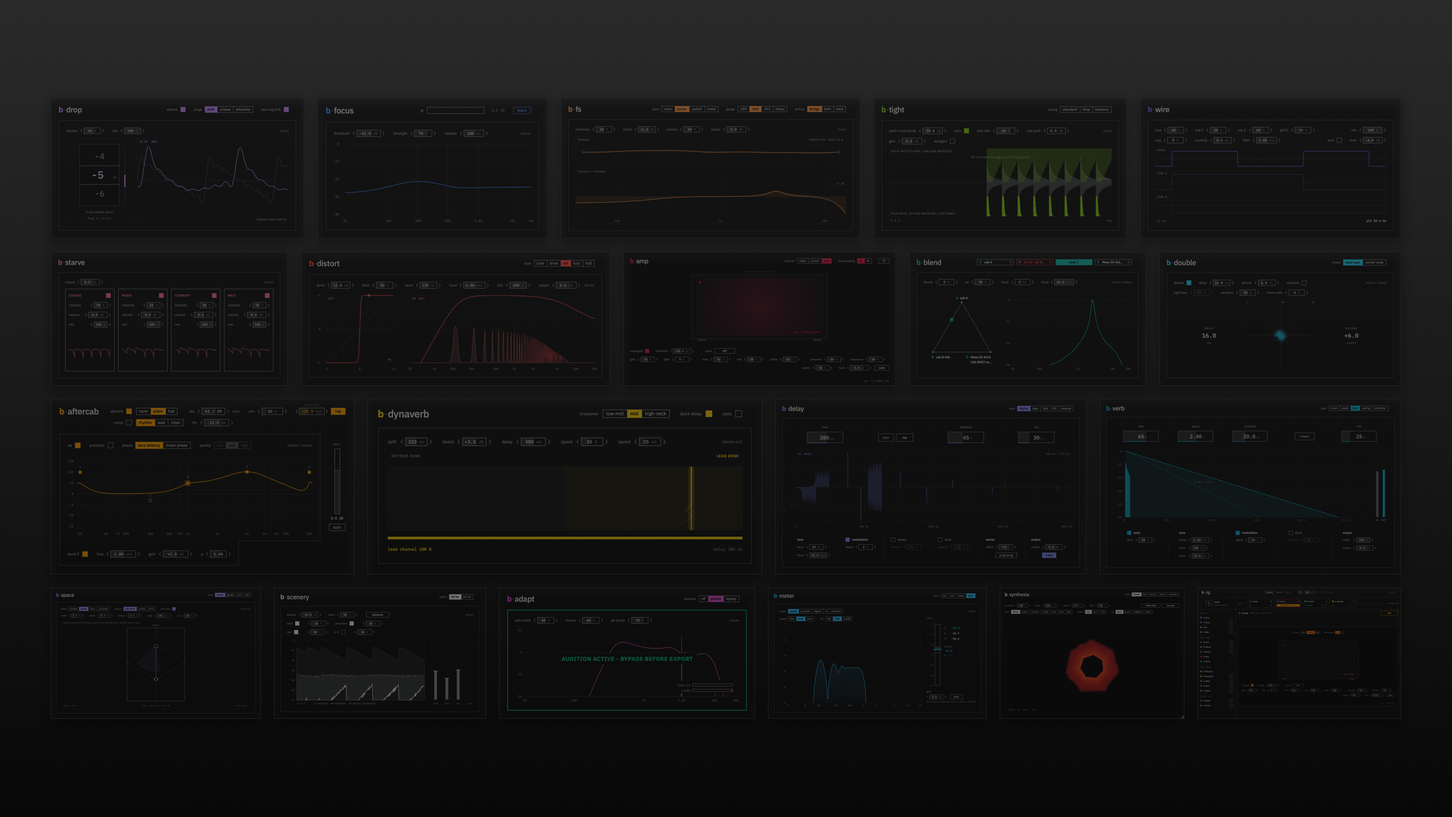
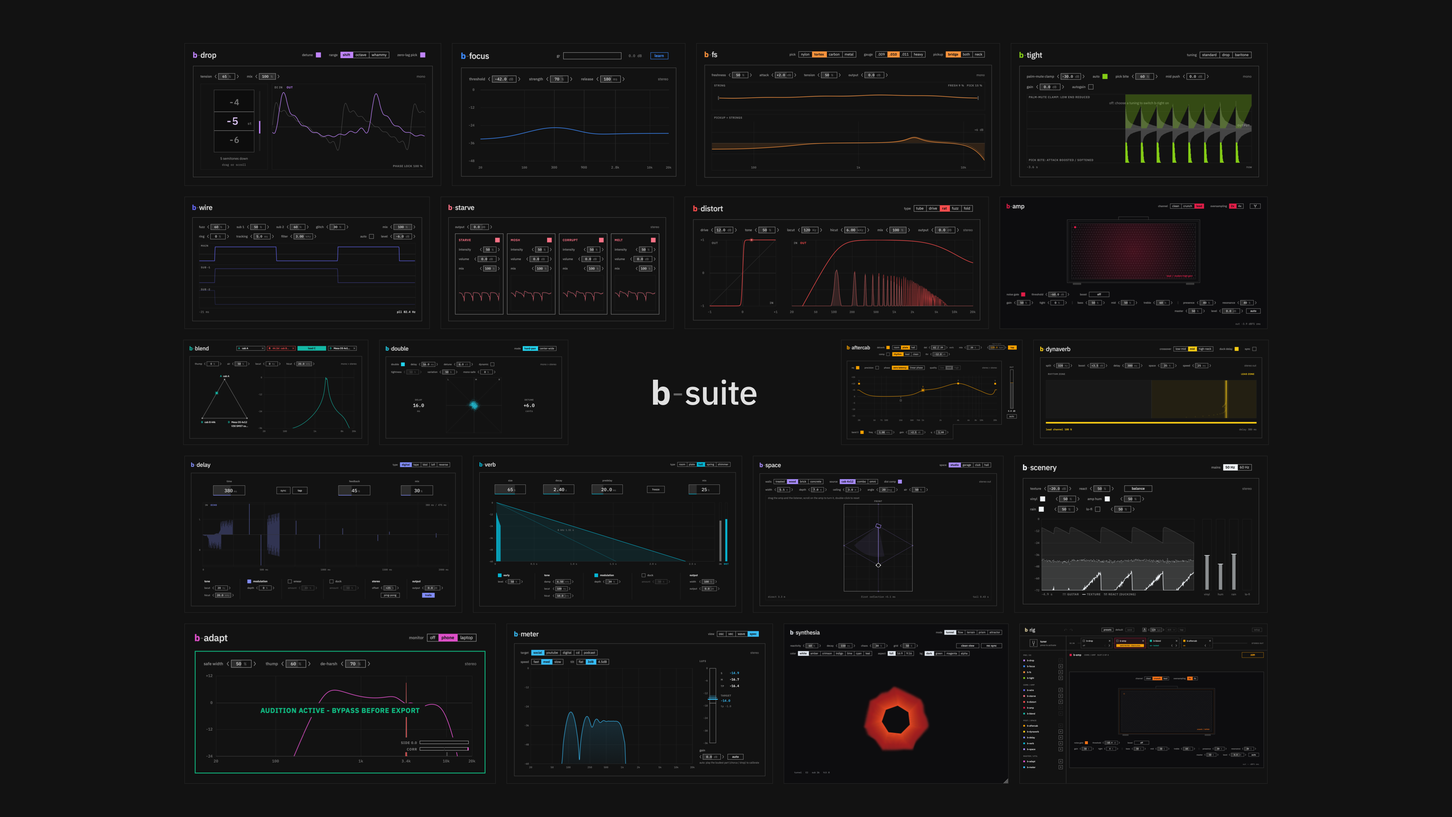
Suite installer fixes, two showcases
- Windows: strip CRLF when reading the plugin list; deterministic tap test
  (no wall-clock sleeps on slow CI machines).
- Showcases on the plugins' grey: every plugin around the b-suite logo, and
  every plugin on its own (used in the README).
- READMEs: b-suite and b-rig releases, plugins follow b-suite updates.

diff --git a/b-rig/Tools/MakeLogo.cpp b/b-rig/Tools/MakeLogo.cpp
@@ -156,70 +156,118 @@ Scene icon()
 }
 }
 
-// Vetrina a schermo intero: le schermate dei plugin incastrate in righe giustificate (ogni riga riempie la larghezza,
-// le immagini mantengono le proporzioni), margini uguali, sfondo che sfuma dall'alto verso il basso.
-//   BSuiteLogo --showcase uscita.png larghezza altezza img1.png img2.png ...
+// Vetrina a schermo intero: le schermate dei plugin a mosaico (righe giustificate: ogni riga riempie la larghezza e
+// le immagini mantengono le proporzioni), margini uguali, sfondo grigio come quello dei plugin.
+//   BSuiteLogo --showcase uscita.png larghezza altezza [--logo] img1.png img2.png ...
+// Con --logo i plugin stanno intorno al logotipo b-suite, al centro della riga di mezzo.
 int showcase (int argc, char** argv)
 {
     const auto cwd = juce::File::getCurrentWorkingDirectory();
     const auto out = cwd.getChildFile (argv[2]);
     const int W = juce::String (argv[3]).getIntValue(), H = juce::String (argv[4]).getIntValue();
+    int first = 5;
+    const bool withLogo = argc > 5 && juce::String (argv[5]) == "--logo";
+    if (withLogo) ++first;
     std::vector<juce::Image> imgs;
-    for (int i = 5; i < argc; ++i)
+    for (int i = first; i < argc; ++i)
     {
         auto im = juce::ImageFileFormat::loadFrom (cwd.getChildFile (argv[i]));
         if (im.isValid()) imgs.push_back (im); else std::printf ("salto %s\n", argv[i]);
     }
     if (imgs.empty()) return 1;
-    const float margin = (float) W * 0.035f, gap = (float) W * 0.009f;
+    const float margin = (float) W * 0.03f, gap = (float) W * 0.008f;
     const float availW = (float) W - 2.0f * margin, availH = (float) H - 2.0f * margin;
+    constexpr int kLogo = -1;   // la casella del logo nel mosaico
+    constexpr float kLogoAspect = 2.4f;
+    auto aspect = [&] (int i) { return i == kLogo ? kLogoAspect : (float) imgs[(size_t) i].getWidth() / (float) imgs[(size_t) i].getHeight(); };
     const int n = (int) imgs.size();
-    auto aspect = [&] (int i) { return (float) imgs[(size_t) i].getWidth() / (float) imgs[(size_t) i].getHeight(); };
-    // righe: per ogni numero di righe si dividono le immagini (in ordine) con somme di proporzioni simili,
-    // ogni riga alta quanto serve per riempire la larghezza; si sceglie l'altezza totale più vicina allo spazio
+
+    // righe: con il logo, un numero dispari di righe con lo stesso numero di plugin e il logo al centro di quella di
+    // mezzo; senza, la divisione in righe con le proporzioni più simili e l'altezza più vicina allo spazio
     std::vector<std::vector<int>> best; float bestErr = 1.0e9f;
-    for (int rows = 2; rows <= 7; ++rows)
+    auto rowHeight = [&] (const std::vector<int>& r) { float sa = 0; for (int i : r) sa += aspect (i); return (availW - gap * (float) (r.size() - 1)) / sa; };
+    auto evaluate = [&] (const std::vector<std::vector<int>>& part)
     {
-        float total = 0; for (int i = 0; i < n; ++i) total += aspect (i);
-        std::vector<std::vector<int>> part (1);
-        float acc = 0;
-        for (int i = 0; i < n; ++i)
-        {
-            const float a = aspect (i);
-            if (! part.back().empty() && (int) part.size() < rows && acc + a * 0.5f > total / (float) rows * (float) part.size())
-                part.emplace_back();
-            part.back().push_back (i); acc += a;
-        }
-        float h = 0;
-        for (auto& r : part) { float sa = 0; for (int i : r) sa += aspect (i); h += (availW - gap * (float) (r.size() - 1)) / sa; }
-        h += gap * (float) (part.size() - 1);
-        const float err = h > availH ? (h - availH) * 1.5f : availH - h;   // meglio un po' più piccolo che tagliato
+        float h = gap * (float) (part.size() - 1);
+        for (auto& r : part) h += rowHeight (r);
+        const float err = h > availH ? (h - availH) * 1.5f : availH - h;
         if (err < bestErr) { bestErr = err; best = part; }
+    };
+    if (withLogo)
+    {
+        for (int rows : { 3, 5, 7 })
+        {
+            std::vector<std::vector<int>> part ((size_t) rows);
+            int i = 0;
+            for (int r = 0; r < rows; ++r)
+            {
+                const int take = (n - i) / (rows - r);   // plugin rimasti divisi in parti uguali
+                for (int k = 0; k < take; ++k)
+                {
+                    if (r == rows / 2 && k == take / 2) part[(size_t) r].push_back (kLogo);
+                    part[(size_t) r].push_back (i++);
+                }
+                if (r == rows / 2 && take == 0) part[(size_t) r].push_back (kLogo);
+            }
+            evaluate (part);
+        }
     }
-    // scala unica se le righe non entrano in altezza, poi tutto centrato
-    std::vector<float> rowH; float totalH = 0;
-    for (auto& r : best) { float sa = 0; for (int i : r) sa += aspect (i); rowH.push_back ((availW - gap * (float) (r.size() - 1)) / sa); totalH += rowH.back(); }
-    totalH += gap * (float) (best.size() - 1);
-    const float k = juce::jmin (1.0f, availH / totalH);
+    else
+    {
+        for (int rows = 2; rows <= 7; ++rows)
+        {
+            float total = 0; for (int i = 0; i < n; ++i) total += aspect (i);
+            std::vector<std::vector<int>> part (1);
+            float acc = 0;
+            for (int i = 0; i < n; ++i)
+            {
+                const float a = aspect (i);
+                if (! part.back().empty() && (int) part.size() < rows && acc + a * 0.5f > total / (float) rows * (float) part.size())
+                    part.emplace_back();
+                part.back().push_back (i); acc += a;
+            }
+            evaluate (part);
+        }
+    }
+    std::vector<float> rowH; float totalH = gap * (float) (best.size() - 1);
+    for (auto& r : best) { rowH.push_back (rowHeight (r)); totalH += rowH.back(); }
+    const float k = juce::jmin (1.0f, availH / totalH);   // una scala sola se non entra in altezza, poi tutto centrato
+
     juce::Image canvas (juce::Image::RGB, W, H, true);
     {
         juce::Graphics g (canvas);
-        g.setGradientFill (juce::ColourGradient (juce::Colour (0xff2a2a2a), 0.0f, 0.0f, juce::Colour (0xff080808), 0.0f, (float) H, false));
-        g.fillAll();
+        g.fillAll (ui::background);
         g.setImageResamplingQuality (juce::Graphics::highResamplingQuality);
         float y = ((float) H - totalH * k) * 0.5f;
         for (size_t r = 0; r < best.size(); ++r)
         {
             const float h = rowH[r] * k;
-            float rowW = 0; for (int i : best[r]) rowW += aspect (i) * h;
-            rowW += gap * (float) (best[r].size() - 1);
+            float rowW = gap * (float) (best[r].size() - 1);
+            for (int i : best[r]) rowW += aspect (i) * h;
             float x = ((float) W - rowW) * 0.5f;
             for (int i : best[r])
             {
                 const auto dst = juce::Rectangle<float> (x, y, aspect (i) * h, h);
-                juce::DropShadow (juce::Colours::black.withAlpha (0.45f), (int) (gap * 1.2f), { 0, (int) (gap * 0.3f) }).drawForRectangle (g, dst.toNearestInt());
-                g.drawImage (imgs[(size_t) i], dst);
-                g.setColour (juce::Colour (0xff2a2a2a)); g.drawRect (dst, 1.0f);
+                if (i == kLogo)
+                {
+                    // logotipo b-suite, senza i quadratini: b e nome chiari, trattino grigio
+                    juce::Path pb, pd, pn;
+                    const float size = dst.getHeight() * 0.42f;
+                    float tx = 0.0f;
+                    tx += textPath (pb, "b", ui::Face::SansBold, size, tx);
+                    tx += textPath (pd, "-", ui::Face::SansLight, size, tx);
+                    textPath (pn, "suite", ui::Face::SansMedium, size, tx, -0.02f);
+                    juce::Path all; all.addPath (pb); all.addPath (pd); all.addPath (pn);
+                    const auto ink = all.getBounds();
+                    const auto t = juce::AffineTransform::translation (dst.getCentreX() - ink.getCentreX(), dst.getCentreY() - ink.getCentreY());
+                    g.setColour (ui::titleName); g.fillPath (pb, t); g.fillPath (pn, t);
+                    g.setColour (ui::titleDash); g.fillPath (pd, t);
+                }
+                else
+                {
+                    g.drawImage (imgs[(size_t) i], dst);
+                    g.setColour (ui::separator); g.drawRect (dst.expanded (1.0f), 1.0f);   // il bordo separa le schermate dal fondo
+                }
                 x += dst.getWidth() + gap;
             }
             y += h + gap;
@@ -228,7 +276,7 @@ int showcase (int argc, char** argv)
     out.deleteFile();
     juce::FileOutputStream os (out);
     const bool ok = os.openedOk() && juce::PNGImageFormat().writeImageToStream (canvas, os);
-    std::printf ("%s %s (%d immagini, %d righe)\n", ok ? "scritto" : "ERRORE", out.getFullPathName().toRawUTF8(), n, (int) best.size());
+    std::printf ("%s %s (%d immagini, %d righe%s)\n", ok ? "scritto" : "ERRORE", out.getFullPathName().toRawUTF8(), n, (int) best.size(), withLogo ? ", logo" : "");
     return ok ? 0 : 1;
 }
 

diff --git a/b-delay/Source/PluginProcessor.cpp b/b-delay/Source/PluginProcessor.cpp
@@ -78,9 +78,10 @@ bool BDelayProcessor::isBusesLayoutSupported (const BusesLayout& l) const
     return (in == juce::AudioChannelSet::mono() || in == juce::AudioChannelSet::stereo()) && out == juce::AudioChannelSet::stereo();
 }
 
-void BDelayProcessor::tap()
+void BDelayProcessor::tap() { tapAt (juce::Time::getMillisecondCounterHiRes()); }
+
+void BDelayProcessor::tapAt (double now)
 {
-    const double now = juce::Time::getMillisecondCounterHiRes();
     if (! taps.empty() && now - taps.back() > 2500.0) taps.clear();   // pausa lunga: si ricomincia
     taps.push_back (now);
     if (taps.size() > 4) taps.erase (taps.begin());

diff --git a/b-delay/Tests/Tests.cpp b/b-delay/Tests/Tests.cpp
@@ -58,7 +58,7 @@ int main()
     // 4. tap: tre click a 500 ms di distanza -> 500 ms (e sync spento)
     {
         auto p = mk ({ { BDelayIDs::sync, 1.0f } });
-        for (int k = 0; k < 3; ++k) { p->tap(); if (k < 2) juce::Thread::sleep (500); }
+        for (int k = 0; k < 3; ++k) p->tapAt (1000.0 + 500.0 * k);   // orari dati: il test non dipende dalla velocità della macchina
         auto* t = p->apvts.getParameter (BDelayIDs::time);
         const float ms = t->convertFrom0to1 (t->getValue());
         std::printf ("       tap a 500 ms: %.1f ms\n", ms);

diff --git a/b-delay/Source/PluginProcessor.h b/b-delay/Source/PluginProcessor.h
@@ -78,6 +78,7 @@ public:
     // tempo del canale sinistro (ms) dai parametri e dal tempo del brano
     static float leftMs (float timeMs, bool sync, int division, double bpm) noexcept;
     void tap();                                               // message thread: un click su tap
+    void tapAt (double nowMs);                                // lo stesso con l'ora data (test)
 
     // per il grafico
     std::atomic<double> bpmNow { 120.0 };

diff --git a/README.md b/README.md
@@ -15,7 +15,7 @@ Use them, study them, change them, ship your own versions. Everything is here: t
 
 The code was written with Claude Code, and so can your changes: the repository is laid out so that a person or an AI assistant can find their way around quickly.
 
-<p align="center"><img src="docs/b-suite-showcase.png" alt="All the b-suite plugins" width="100%"></p>
+<p align="center"><img src="docs/b-suite-showcase-all.png" alt="All the b-suite plugins" width="100%"></p>
 
 ## The plugins
 
@@ -97,10 +97,13 @@ b-suite is free software under the [GNU Affero General Public License v3](LICENS
 
 ## Releases and updates
 
-- Releases are on the GitHub releases page, one tag per product: `b-rig-v0.2.0`, `b-amp-v0.1.3`... During the beta they are marked as pre-releases.
-- To publish a new b-rig version: `tools/release.sh b-rig 0.2.0`. It sets the version, tags it and pushes; GitHub builds the installers for macOS and Windows and publishes the release.
-- b-rig and the plugins check for a new version once a day. If there is one, a small notice shows up in the corner; click it and the about panel opens with a download button. The check is an anonymous request to the GitHub releases.
+- Two products, each with its own tag and installers on the GitHub releases page (pre-releases during the beta):
+  - **b-suite** (`b-suite-v0.2.0`): every plugin in one installer, all with the same version. macOS: a universal `.pkg` with Audio Unit and VST3, where "Customise" lets you leave plugins out. Windows x64 and ARM64: a VST3 setup with one component per plugin.
+  - **b-rig** (`b-rig-v0.2.0`): the standalone app, for macOS (Apple Silicon) and Windows (x64 and ARM64).
+- To publish: `tools/release.sh b-suite 0.2.0` or `tools/release.sh b-rig 0.2.0`. It sets the version, tags it and pushes; GitHub builds, tests and publishes the release.
+- To build every plugin at once locally: `cmake -S . -B build -G Ninja -DCMAKE_BUILD_TYPE=Release` then `cmake --build build --target bsuite_plugins`.
+- b-rig checks for new b-rig releases, the plugins for new b-suite releases, once a day. If there is one, a small notice shows up in the corner; click it and the about panel opens with a download button. The check is an anonymous request to the GitHub releases.
 
 ## Logo and images
 
-`docs/` has the logo in three sizes (the banner above, a full-screen version at 1920 × 1080 and a square icon at 1024 × 1024, one square per plugin in the order of the chain) and the showcase with every plugin (3840 × 2160). All of them are generated: the logos by `BSuiteLogo` in b-rig, the showcase by `tools/make-showcase.sh` from the screenshots the tests save. Use them freely.
+`docs/` has the logo in three sizes (the banner above, a full-screen version at 1920 × 1080 and a square icon at 1024 × 1024, one square per plugin in the order of the chain) and two showcases at 3840 × 2160: every plugin around the b-suite logo (`b-suite-showcase.png`, good as the repository's social preview) and every plugin on its own (`b-suite-showcase-all.png`). All of them are generated: the logos by `BSuiteLogo` in b-rig, the showcases by `tools/make-showcase.sh` from the screenshots the tests save. Use them freely.

diff --git a/b-amp/README.md b/b-amp/README.md
@@ -136,7 +136,7 @@ Click the b-amp logo for a short description of the plugin, signed b-suite (free
 
 ## Updates
 
-The about panel shows the version (the whole b-suite is in beta). Once a day at most, while the window is open, the plugin asks the b-suite GitHub releases whether there is a newer version. The answer is shared with the other b-suite plugins and b-rig, so they make one request a day between them. If there is one, a small notice appears in the bottom-right corner ("update available" and the new version). Clicking it opens the about panel, where a `download` button opens the release page; its x closes it. A small square in the plugin's colour stays next to the logo, so the update can still be found from the logo. The request is anonymous and carries no data about you. Offline or with the releases unreachable, nothing is shown. Inside b-rig the modules never check, because b-rig updates as one app.
+The about panel shows the version (the whole b-suite is in beta). Once a day at most, while the window is open, the plugin asks the GitHub releases whether there is a newer b-suite (all the plugins are released together, with one installer and one version). The answer is shared with the other b-suite plugins and b-rig, so they make one request a day between them. If there is one, a small notice appears in the bottom-right corner ("update available" and the new version). Clicking it opens the about panel, where a `download` button opens the release page; its x closes it. A small square in the plugin's colour stays next to the logo, so the update can still be found from the logo. The request is anonymous and carries no data about you. Offline or with the releases unreachable, nothing is shown. Inside b-rig the modules never check, because b-rig updates as one app.
 
 ## Build
 

diff --git a/b-adapt/README.md b/b-adapt/README.md
@@ -44,7 +44,7 @@ Click the b-adapt logo for a short description of the plugin, signed b-suite (fr
 
 ## Updates
 
-The about panel shows the version (the whole b-suite is in beta). Once a day at most, while the window is open, the plugin asks the b-suite GitHub releases whether there is a newer version. The answer is shared with the other b-suite plugins and b-rig, so they make one request a day between them. If there is one, a small notice appears in the bottom-right corner ("update available" and the new version). Clicking it opens the about panel, where a `download` button opens the release page; its x closes it. A small square in the plugin's colour stays next to the logo, so the update can still be found from the logo. The request is anonymous and carries no data about you. Offline or with the releases unreachable, nothing is shown. Inside b-rig the modules never check, because b-rig updates as one app.
+The about panel shows the version (the whole b-suite is in beta). Once a day at most, while the window is open, the plugin asks the GitHub releases whether there is a newer b-suite (all the plugins are released together, with one installer and one version). The answer is shared with the other b-suite plugins and b-rig, so they make one request a day between them. If there is one, a small notice appears in the bottom-right corner ("update available" and the new version). Clicking it opens the about panel, where a `download` button opens the release page; its x closes it. A small square in the plugin's colour stays next to the logo, so the update can still be found from the logo. The request is anonymous and carries no data about you. Offline or with the releases unreachable, nothing is shown. Inside b-rig the modules never check, because b-rig updates as one app.
 
 ## Build
 

diff --git a/b-aftercab/README.md b/b-aftercab/README.md
@@ -74,7 +74,7 @@ Click the b-aftercab logo for a short description of the plugin, signed b-suite 
 
 ## Updates
 
-The about panel shows the version (the whole b-suite is in beta). Once a day at most, while the window is open, the plugin asks the b-suite GitHub releases whether there is a newer version. The answer is shared with the other b-suite plugins and b-rig, so they make one request a day between them. If there is one, a small notice appears in the bottom-right corner ("update available" and the new version). Clicking it opens the about panel, where a `download` button opens the release page; its x closes it. A small square in the plugin's colour stays next to the logo, so the update can still be found from the logo. The request is anonymous and carries no data about you. Offline or with the releases unreachable, nothing is shown. Inside b-rig the modules never check, because b-rig updates as one app.
+The about panel shows the version (the whole b-suite is in beta). Once a day at most, while the window is open, the plugin asks the GitHub releases whether there is a newer b-suite (all the plugins are released together, with one installer and one version). The answer is shared with the other b-suite plugins and b-rig, so they make one request a day between them. If there is one, a small notice appears in the bottom-right corner ("update available" and the new version). Clicking it opens the about panel, where a `download` button opens the release page; its x closes it. A small square in the plugin's colour stays next to the logo, so the update can still be found from the logo. The request is anonymous and carries no data about you. Offline or with the releases unreachable, nothing is shown. Inside b-rig the modules never check, because b-rig updates as one app.
 
 ## Build
 

diff --git a/b-blend/README.md b/b-blend/README.md
@@ -59,7 +59,7 @@ Click the b-blend logo for a short description of the plugin, signed b-suite (fr
 
 ## Updates
 
-The about panel shows the version (the whole b-suite is in beta). Once a day at most, while the window is open, the plugin asks the b-suite GitHub releases whether there is a newer version. The answer is shared with the other b-suite plugins and b-rig, so they make one request a day between them. If there is one, a small notice appears in the bottom-right corner ("update available" and the new version). Clicking it opens the about panel, where a `download` button opens the release page; its x closes it. A small square in the plugin's colour stays next to the logo, so the update can still be found from the logo. The request is anonymous and carries no data about you. Offline or with the releases unreachable, nothing is shown. Inside b-rig the modules never check, because b-rig updates as one app.
+The about panel shows the version (the whole b-suite is in beta). Once a day at most, while the window is open, the plugin asks the GitHub releases whether there is a newer b-suite (all the plugins are released together, with one installer and one version). The answer is shared with the other b-suite plugins and b-rig, so they make one request a day between them. If there is one, a small notice appears in the bottom-right corner ("update available" and the new version). Clicking it opens the about panel, where a `download` button opens the release page; its x closes it. A small square in the plugin's colour stays next to the logo, so the update can still be found from the logo. The request is anonymous and carries no data about you. Offline or with the releases unreachable, nothing is shown. Inside b-rig the modules never check, because b-rig updates as one app.
 
 ## Build
 

diff --git a/b-delay/README.md b/b-delay/README.md
@@ -51,7 +51,7 @@ Click the b-delay logo for a short description of the plugin, signed b-suite (fr
 
 ## Updates
 
-The about panel shows the version (the whole b-suite is in beta). Once a day at most, while the window is open, the plugin asks the b-suite GitHub releases whether there is a newer version. The answer is shared with the other b-suite plugins and b-rig, so they make one request a day between them. If there is one, a small notice appears in the bottom-right corner ("update available" and the new version). Clicking it opens the about panel, where a `download` button opens the release page; its x closes it. A small square in the plugin's colour stays next to the logo, so the update can still be found from the logo. The request is anonymous and carries no data about you. Offline or with the releases unreachable, nothing is shown. Inside b-rig the modules never check, because b-rig updates as one app.
+The about panel shows the version (the whole b-suite is in beta). Once a day at most, while the window is open, the plugin asks the GitHub releases whether there is a newer b-suite (all the plugins are released together, with one installer and one version). The answer is shared with the other b-suite plugins and b-rig, so they make one request a day between them. If there is one, a small notice appears in the bottom-right corner ("update available" and the new version). Clicking it opens the about panel, where a `download` button opens the release page; its x closes it. A small square in the plugin's colour stays next to the logo, so the update can still be found from the logo. The request is anonymous and carries no data about you. Offline or with the releases unreachable, nothing is shown. Inside b-rig the modules never check, because b-rig updates as one app.
 
 ## Build
 

diff --git a/b-distort/README.md b/b-distort/README.md
@@ -47,7 +47,7 @@ Click the b-distort logo for a short description of the plugin, signed b-suite (
 
 ## Updates
 
-The about panel shows the version (the whole b-suite is in beta). Once a day at most, while the window is open, the plugin asks the b-suite GitHub releases whether there is a newer version. The answer is shared with the other b-suite plugins and b-rig, so they make one request a day between them. If there is one, a small notice appears in the bottom-right corner ("update available" and the new version). Clicking it opens the about panel, where a `download` button opens the release page; its x closes it. A small square in the plugin's colour stays next to the logo, so the update can still be found from the logo. The request is anonymous and carries no data about you. Offline or with the releases unreachable, nothing is shown. Inside b-rig the modules never check, because b-rig updates as one app.
+The about panel shows the version (the whole b-suite is in beta). Once a day at most, while the window is open, the plugin asks the GitHub releases whether there is a newer b-suite (all the plugins are released together, with one installer and one version). The answer is shared with the other b-suite plugins and b-rig, so they make one request a day between them. If there is one, a small notice appears in the bottom-right corner ("update available" and the new version). Clicking it opens the about panel, where a `download` button opens the release page; its x closes it. A small square in the plugin's colour stays next to the logo, so the update can still be found from the logo. The request is anonymous and carries no data about you. Offline or with the releases unreachable, nothing is shown. Inside b-rig the modules never check, because b-rig updates as one app.
 
 ## Build
 

diff --git a/b-double/README.md b/b-double/README.md
@@ -48,7 +48,7 @@ Click the b-double logo for a short description of the plugin, signed b-suite (f
 
 ## Updates
 
-The about panel shows the version (the whole b-suite is in beta). Once a day at most, while the window is open, the plugin asks the b-suite GitHub releases whether there is a newer version. The answer is shared with the other b-suite plugins and b-rig, so they make one request a day between them. If there is one, a small notice appears in the bottom-right corner ("update available" and the new version). Clicking it opens the about panel, where a `download` button opens the release page; its x closes it. A small square in the plugin's colour stays next to the logo, so the update can still be found from the logo. The request is anonymous and carries no data about you. Offline or with the releases unreachable, nothing is shown. Inside b-rig the modules never check, because b-rig updates as one app.
+The about panel shows the version (the whole b-suite is in beta). Once a day at most, while the window is open, the plugin asks the GitHub releases whether there is a newer b-suite (all the plugins are released together, with one installer and one version). The answer is shared with the other b-suite plugins and b-rig, so they make one request a day between them. If there is one, a small notice appears in the bottom-right corner ("update available" and the new version). Clicking it opens the about panel, where a `download` button opens the release page; its x closes it. A small square in the plugin's colour stays next to the logo, so the update can still be found from the logo. The request is anonymous and carries no data about you. Offline or with the releases unreachable, nothing is shown. Inside b-rig the modules never check, because b-rig updates as one app.
 
 ## Build
 
